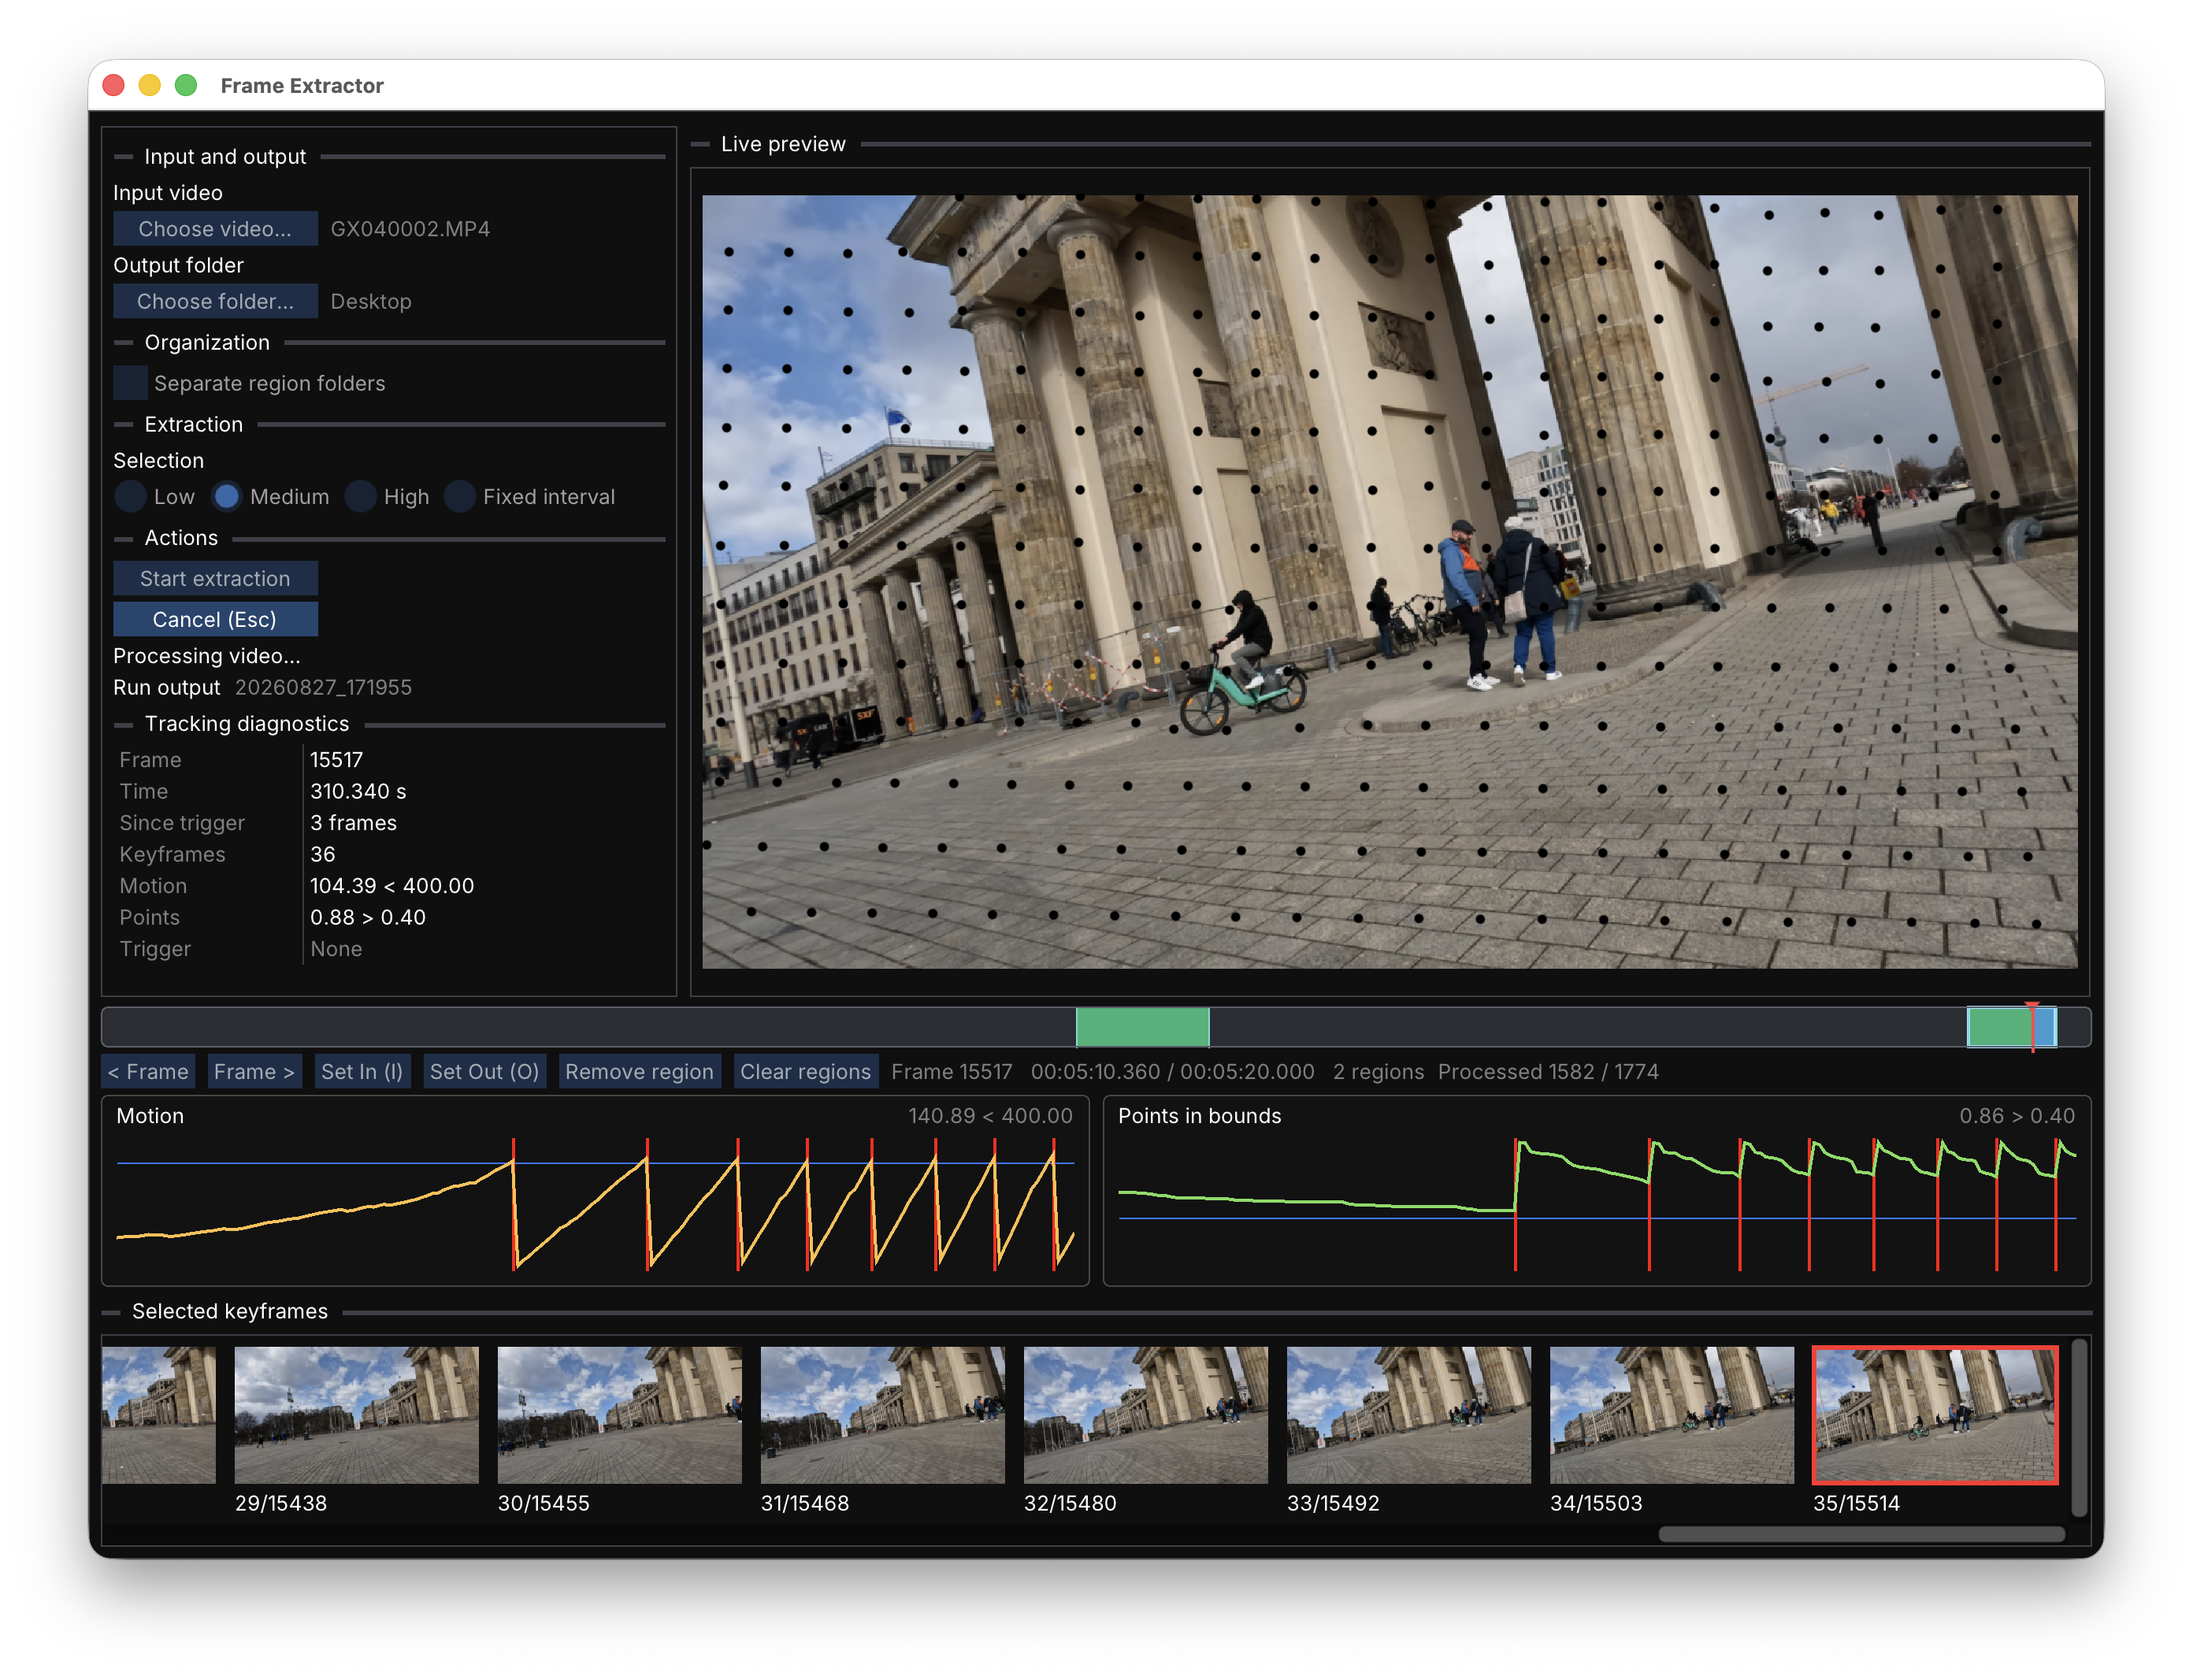
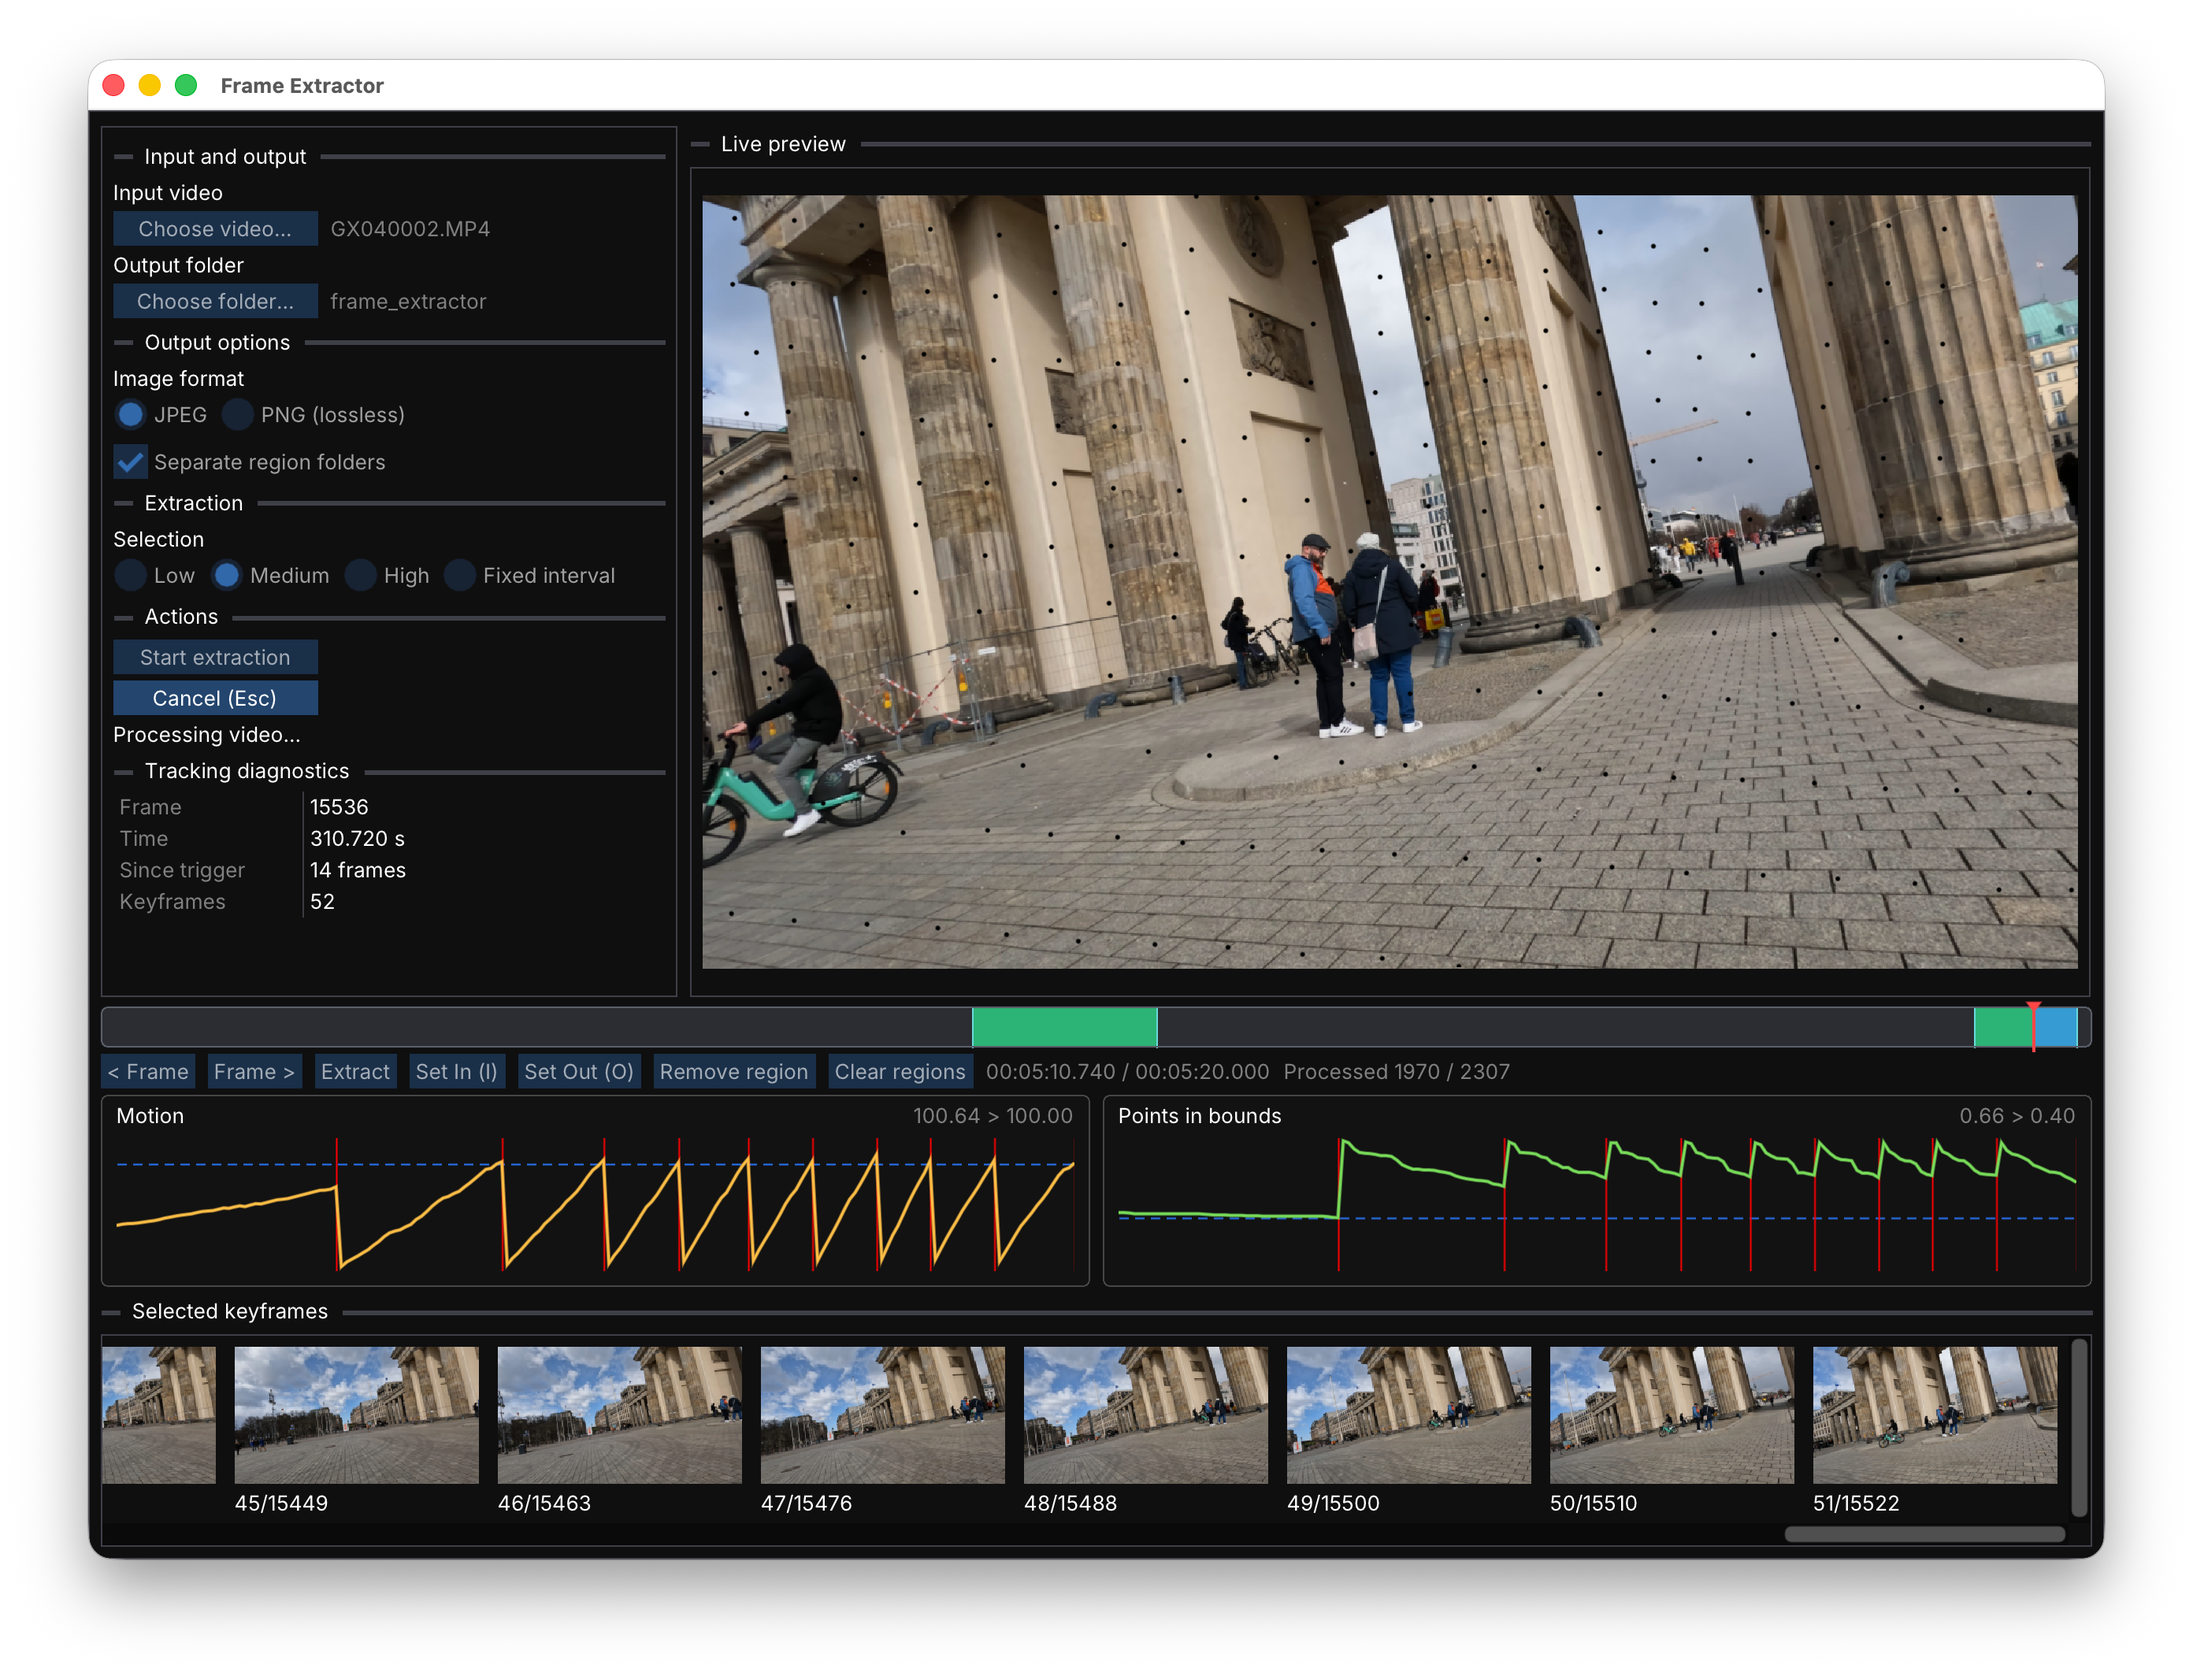
docs: refresh public README and screenshot

diff --git a/README.md b/README.md
@@ -1,78 +1,96 @@
-![Frame Extractor desktop application](images/screenshot.png)
-
 # Frame Extractor
 
-Frame Extractor is a desktop application for selecting representative images
-from video. It can find frames automatically from camera motion, sample at a
-fixed interval, or save an individual frame chosen in the preview.
+**Adaptive video frame extraction for Structure from Motion, Gaussian Splatting,
+photogrammetry, and related 3D reconstruction workflows.**
 
-The application runs locally: videos do not need to be uploaded to a service.
+Frame Extractor turns video into image sequences for reconstruction pipelines
+such as COLMAP and Gaussian Splatting.
+
+Unlike conventional fixed-interval extraction, it can select keyframes
+dynamically based on camera motion. This reduces redundant images when the
+camera is stationary or moving slowly, while extracting frames more frequently
+during fast movement or rotation.
+
+The result is a smaller, more useful image set with better overlap between
+neighboring views.
+
+![Frame Extractor desktop application showing adaptive extraction and selected keyframes](images/screenshot.png)
+
+## Why adaptive extraction?
+
+A typical video-to-SfM workflow extracts every *N*th frame:
+
+```text
+Video → every 10th frame → images → SfM / Gaussian Splatting
+```
+
+The problem is that camera motion is rarely constant.
+
+When the camera stops or moves slowly, fixed sampling creates many nearly
+identical images. When it moves or rotates quickly, the same interval may leave
+too much change between frames, making feature matching and pose recovery
+harder.
+
+Frame Extractor adapts the spacing automatically:
+
+```text
+Slow motion:   ●             ●             ●
+Fast motion:   ●   ●   ●   ●   ●   ●   ●
+```
 
 ## Features
 
-- Low, Medium, and High automatic extraction profiles
-- Fixed sampling at `1/4`, `1/6`, `1/8`, `1/10`, `1/12`, or `1/16` of the
-  source frames
-- Frame-accurate navigation and multiple selectable timeline regions
-- JPEG or lossless PNG output at the video's original resolution
-- Manual extraction of the displayed frame, with duplicate protection
+- **Motion-adaptive keyframe extraction** with Low, Medium, and High presets
+- **Fixed-interval extraction** when exact sampling is preferred
+- **Multiple timeline regions** to extract only useful sections of a video
+- **Manual frame extraction** from the preview
+- **JPEG or lossless PNG** output at source resolution
+- Frame-accurate navigation and live preview
 - Optional separate output folders for each selected region
-- Live preview, tracking overlay, diagnostic graphs, and progress display
-- Cancellation without discarding frames that have already been saved
-- A command-line interface for scripted or headless use
+- CSV manifest, extraction settings, and summary saved alongside the images
+- Desktop GUI and command-line interface
+- All processing runs locally
+
+Frame Extractor is written in **C++20** and is designed to be fast and easy to
+use without requiring Python or command-line setup.
 
 ## Download
 
-Frame Extractor currently provides test packages for:
+Test packages are currently available for:
 
-- macOS on Apple Silicon as a DMG
-- Windows x64 as a ZIP archive
-- Ubuntu 24.04 x64 as a tar.gz archive
+- **macOS Apple Silicon** — DMG
+- **Windows x64** — ZIP
+- **Ubuntu 24.04 x64** — tar.gz
 
-Tagged [GitHub Releases](https://github.com/morishuz/frame-extractor-desktop/releases)
-contain all three packages and their SHA-256 checksums. Packages from ordinary
-builds are also available from a successful **Actions → CI** run under
-**Artifacts** for 14 days; GitHub may require you to sign in before downloading
-workflow artifacts.
+Download them from
+[GitHub Releases](https://github.com/morishuz/frame-extractor-desktop/releases).
+Each package has an accompanying SHA-256 checksum.
 
-These builds are not yet production-signed public releases. On macOS, you may
-need to right-click the application and choose **Open** the first time. Extract
-Windows and Linux archives completely and keep their `bin`, `lib`, and `share`
-directories together.
+These builds are not yet production-signed releases. On macOS, you may need to
+right-click the application and select **Open** the first time.
 
-macOS is the primary tested platform. Windows and Linux packages receive
-automated tests, but still need broader hands-on testing before a public
-release.
+macOS is currently the primary tested platform. Windows and Linux builds are
+also covered by automated tests.
 
-## Using the application
+## Using Frame Extractor
 
-1. Choose or drag a video into the application.
-2. Choose where the extracted images should be saved.
-3. Select an automatic profile or a fixed frame interval.
-4. Optionally use the timeline to define one or more extraction regions.
-5. Choose JPEG or PNG and select **Start extraction**.
+1. Drag a video into the application.
+2. Choose an output directory.
+3. Select an adaptive preset or fixed interval.
+4. Optionally mark one or more regions on the timeline.
+5. Choose JPEG or PNG.
+6. Click **Start extraction**.
 
-Low, Medium, and High control how frequently the automatic motion-based mode
-selects frames. Fixed interval mode ignores motion and selects an exact ratio
-of source frames.
+For adaptive extraction, **Low**, **Medium**, and **High** control how densely
+keyframes are selected.
 
-Use the timeline, arrow keys, or the **< Frame** and **Frame >** buttons to move
-through the video. Hold the keys or buttons to continue moving. **Set In (I)**
-and **Set Out (O)** create a region. Regions are remembered for each input
-video; **Clear regions** returns to whole-video extraction.
-
-Select **Extract** to save the frame currently displayed in the preview. Manual
-frames are saved at source resolution in a video-specific folder beneath
-`manual_frames` in the selected output directory. Extracting the same source
-frame again in the same format does not rewrite it.
-
-Every automatic extraction region includes its first and last processed frame.
-Use **Cancel** or press Esc to stop a run safely.
+You can also navigate frame-by-frame and use **Extract** to save individual
+frames manually.
 
 ## Output
 
-Automatic extraction creates a timestamped directory containing the images,
-a CSV manifest, the settings used, and a readable summary:
+Each run creates a timestamped directory containing the extracted images and
+metadata:
 
 ```text
 20260827_120000/
@@ -81,59 +99,45 @@ a CSV manifest, the settings used, and a readable summary:
   summary.txt
   keyframes/
     keyframe_0000_000000.jpg
+    keyframe_0001_000037.jpg
     ...
 ```
 
-When **Separate region folders** is enabled, images are grouped into
-`keyframes/region_01`, `keyframes/region_02`, and so on. JPEG is the default;
-PNG avoids additional lossy compression but creates larger files and takes
-longer to encode.
-
 ## Command-line interface
 
-After building from source, create an extraction run with:
+A CLI is included for scripted workflows:
 
 ```sh
 ./build/release/frame-extractor input.mp4 --output-dir output
 ```
 
-Pass a profile and process only part of a video with:
+Run the following for all available options:
 
 ```sh
-./build/release/frame-extractor input.mp4 \
-  --config configs/profiles/medium.yaml \
-  --start-frame 1000 \
-  --max-frames 500 \
-  --output-dir output
+./build/release/frame-extractor --help
 ```
 
-Run `frame-extractor --help` for all available options. Ctrl-C requests the
-same safe cancellation used by the desktop application.
+## Building from source
 
-## Build from source
+Frame Extractor uses C++20, CMake, FFmpeg, OpenCV, SDL3, Dear ImGui, yaml-cpp,
+and Catch2.
 
-The [local development guide](docs/development.md) contains complete dependency,
-build, test, and launch instructions for macOS, Windows, and Ubuntu Linux. A
-C++20 compiler, CMake, FFmpeg, OpenCV, SDL3, yaml-cpp, and Catch2 are required.
-
-Maintainer packaging, signing, and platform-validation instructions are in the
-[release guide](docs/releasing.md).
+See the [development guide](docs/development.md) for complete build instructions
+for macOS, Windows, and Ubuntu Linux. Maintainer packaging and release details
+are in the [release guide](docs/releasing.md).
 
 ## Current limitations
 
-- Automatic sharpness or blur-aware selection is not implemented.
-- macOS packages target Apple Silicon rather than Intel Macs.
-- Windows and Linux packages have automated coverage but limited hands-on
-  validation across different computers and graphics drivers.
-- The Linux archive targets Ubuntu 24.04 x64 and is not a universal AppImage.
+- Blur/sharpness-aware automatic selection is not yet implemented.
+- macOS packages currently target Apple Silicon.
+- Windows and Linux have received less hands-on testing than macOS.
 
-## Contributing and license
-
-Bug reports and focused contributions are welcome. See
-[CONTRIBUTING.md](CONTRIBUTING.md) for the short contribution guide.
-Please report security vulnerabilities privately as described in
-[SECURITY.md](SECURITY.md).
+## License
 
 Frame Extractor is released under the [MIT License](LICENSE). Distributed
-packages also contain third-party software covered by the notices in
-[THIRD_PARTY_NOTICES.md](THIRD_PARTY_NOTICES.md).
+packages also contain third-party software covered by the
+[third-party notices](THIRD_PARTY_NOTICES.md).
+
+Bug reports and contributions are welcome. See
+[CONTRIBUTING.md](CONTRIBUTING.md). Please report suspected security
+vulnerabilities privately as described in [SECURITY.md](SECURITY.md).
